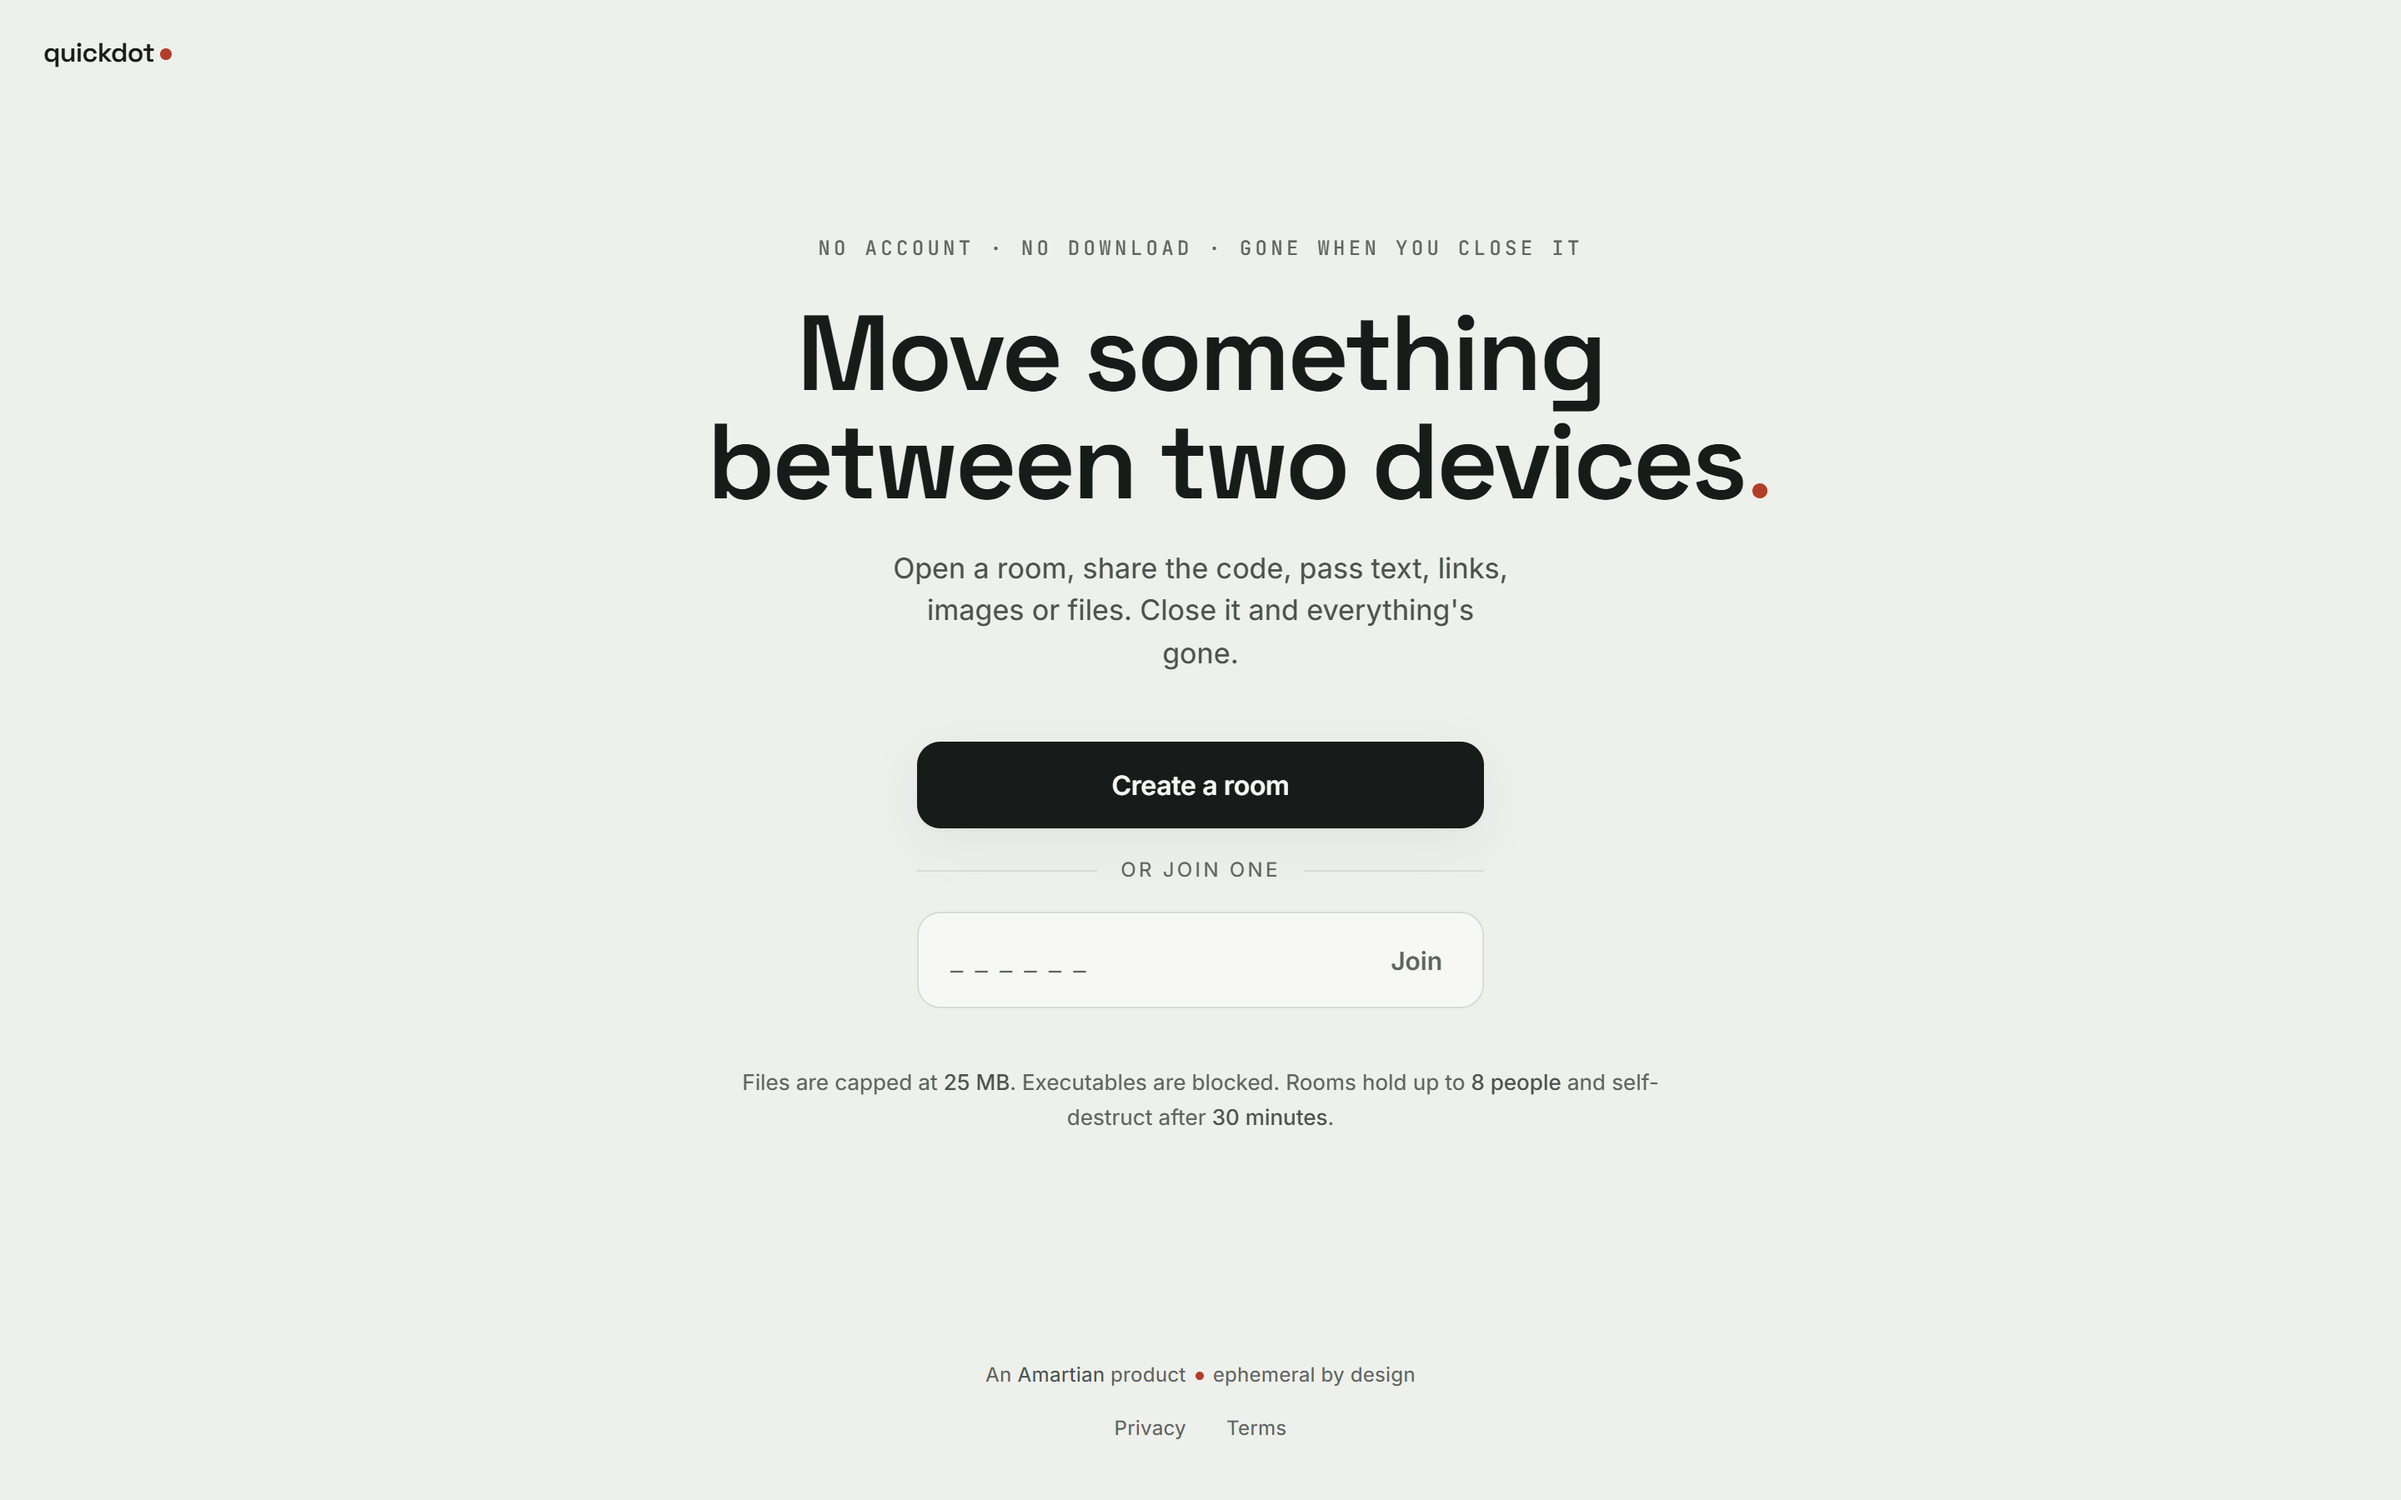
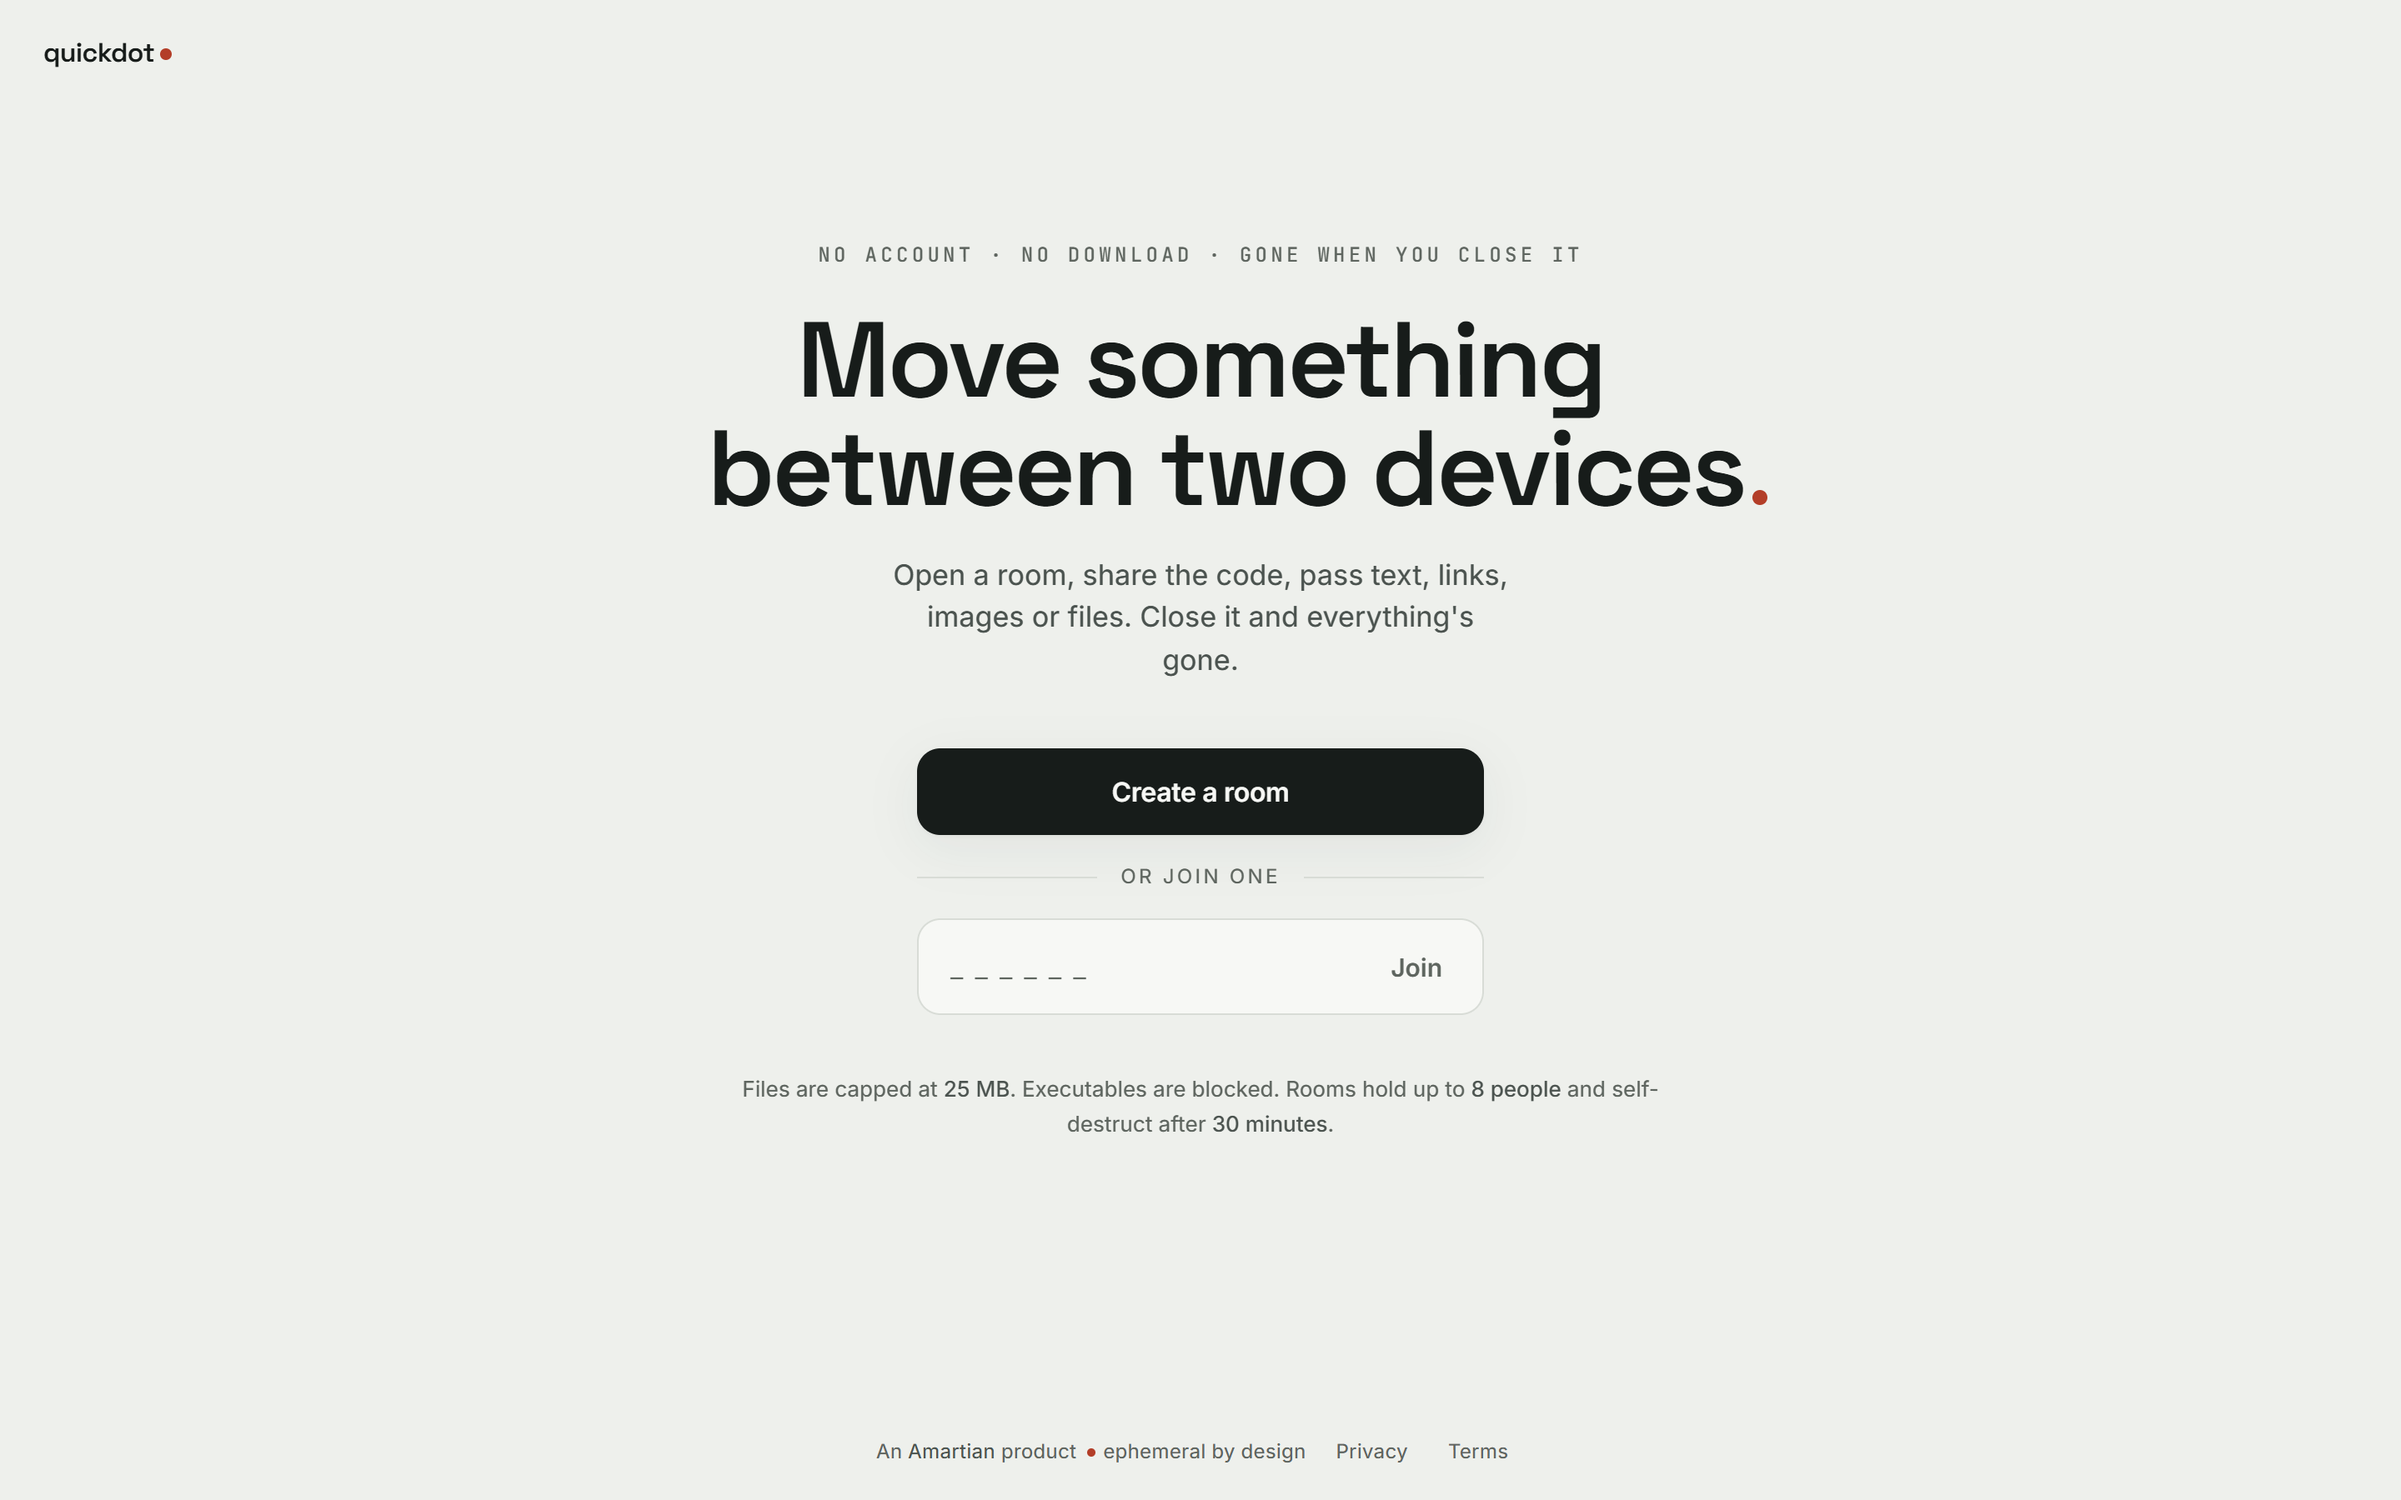
Fit the landing page in common laptop windows without scrolling
Clear the fixed brandmark only on narrow screens, scale the headline and
spacing with viewport height, and put the footer on one row on wide
screens. No scrollbar from 1024x600 to 1920x1080 or on a 390x664 phone
(ADR-0025). Refresh the landing screenshots.

diff --git a/frontend/src/app/landing/landing.scss b/frontend/src/app/landing/landing.scss
@@ -12,9 +12,19 @@
   width: 100%;
   max-width: 640px;
   margin: 0 auto;
-  // The fixed brandmark takes the top ~60px; keep the hero clear of it on
-  // short and landscape screens, where the hero would otherwise reach the top.
-  padding: 72px 24px 32px;
+  padding: 32px 24px;
+
+  // Short screens: tighter rhythm so the page fits without a scrollbar.
+  @media (max-height: 760px) {
+    padding-top: 20px;
+    padding-bottom: 20px;
+  }
+
+  // Narrow screens: the hero spans the width under the fixed brandmark
+  // (top ~60px), so keep it clear. Wider, the brandmark sits off to the side.
+  @media (max-width: 760px) {
+    padding-top: 60px;
+  }
 }
 
 .hero {
@@ -37,7 +47,9 @@ h1 {
   font-weight: 600;
   letter-spacing: -.03em;
   line-height: 1.02;
-  font-size: clamp(26px, 8.5vw, 64px); // "between two devices." is nowrap; 8.5vw keeps it inside a 320px phone
+  // "between two devices." is nowrap; 8.5vw keeps it inside a 320px phone,
+  // 8vh keeps two lines of it from crowding a short laptop window.
+  font-size: clamp(26px, min(8.5vw, 8vh), 64px);
   margin: 0 0 18px;
 
   .em {
@@ -189,5 +201,19 @@ h1 {
   b {
     color: var(--ink-soft);
     font-weight: 500;
+  }
+}
+
+@media (max-height: 760px) {
+  .kicker {
+    margin-bottom: 14px;
+  }
+
+  .sub {
+    margin-bottom: 26px;
+  }
+
+  .note {
+    margin-top: 22px;
   }
 }

diff --git a/frontend/src/app/app.scss b/frontend/src/app/app.scss
@@ -53,7 +53,7 @@
 }
 
 footer {
-  padding: 22px;
+  padding: 10px 22px 12px;
   text-align: center;
   font-size: 12px;
   color: var(--ink-faint);
@@ -89,6 +89,21 @@ footer {
         color: var(--ink);
         text-decoration: underline;
       }
+    }
+  }
+}
+
+// Wide screens: one row instead of two, so short laptop windows don't scroll.
+@media (min-width: 640px) {
+  footer {
+    display: flex;
+    justify-content: center;
+    align-items: center;
+    gap: 8px;
+    padding: 8px 22px;
+
+    .legal {
+      margin-top: 0;
     }
   }
 }

diff --git a/docs/DECISIONS.md b/docs/DECISIONS.md
@@ -734,3 +734,25 @@ page, and these crashes stop reaching Sentry. Verified on a production
 build with each API removed in turn: the note shows, nothing throws and no
 Sentry request is made; a modern browser is unaffected. Plain-HTTP origins
 other than localhost lack `crypto.randomUUID`, so they also get the note.
+
+## ADR-0025: Landing page fits common laptop windows without scrolling
+
+**Date:** 2026-10-10
+**Stage:** 7 (post-launch polish)
+
+**Context:** The landing page needed 764px of height on desktop, so common
+laptop browser windows (1366×657, 1536×730, 1280×720) showed a scrollbar
+with nothing to scroll to. ADR-0023's 72px top padding (to clear the fixed
+brandmark) made it worse, even though on wide screens the brandmark sits
+beside the hero, not above it.
+
+**Decision:**
+- The landing top padding that clears the brandmark (now 60px) applies only
+  at ≤760px wide; wider screens use 32px, or 20px when ≤760px tall.
+- The headline scales with height too: `clamp(26px, min(8.5vw, 8vh), 64px)`.
+- At ≤760px tall the kicker, subhead and note margins tighten.
+- The footer is one row at ≥640px wide, and its padding drops to 10/12px.
+
+**Consequences:** No scrollbar from 1024×600 up to 1920×1080, or on a
+390×664 phone. A 320×568 phone or a landscape phone still scrolls, since the
+content is taller than those screens.

diff --git a/README.md b/README.md
@@ -74,7 +74,7 @@ server.
   truncated IP hash and the file's SHA-256, size and type. The SHA-256 is
   computed as a running digest while the file streams. Sentry scrubs
   exception messages on both the frontend and the backend.
-- **Every decision is written down.** There are [24 ADRs](docs/DECISIONS.md),
+- **Every decision is written down.** There are [25 ADRs](docs/DECISIONS.md),
   an [as-built architecture](docs/ARCHITECTURE.md) and the original
   [spec](SPEC.md) with its staged build plan.
 
